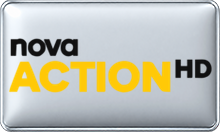
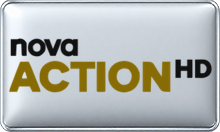
Repair nine visually flagged variants

Changed region(s): [[0.0273, 0.4545, 0.7909, 0.7273]]

diff --git a/reports/black-white-qc-2026-10-09/batch-010/checkpoint.md b/reports/black-white-qc-2026-10-09/batch-010/checkpoint.md
@@ -1,0 +1,13 @@
+- Remote branch baseline before this batch: `e42b74943b0aa0d7efe3f8e6e18c4ebfb31f3a47`.
+- Local worktree HEAD observed during batch creation: `719dd59ec5ef09a28503d21d3f21bad011de442a`.
+# BLACK/WHITE QC batch 010
+
+- Branch: `warder-black-white-complete-qc-20261009`.
+- Starting checkout HEAD: `719dd59ec5ef09a28503d21d3f21bad011de442a`.
+- Reviewed existing Phase 3 contact sheets `review-014.jpg` through `review-017.jpg` (review IDs 1301–1700; 400 variants); selected nine high-confidence 0.8w contrast failures.
+- Repaired nine output PNGs: Heim; V Film Action; V Film Hits; Prime Investigation; CGTN; CGTN Documentary; Kanal 1 Sport; Nova Action HD; Nova Krimi. Exact output paths, service references, input/output SHA256, component masks and reasons are in `repair-manifest.csv`.
+- Edits were applied to temporary in-memory copies of transparent sources, then rendered through `tools/rebuild_master_catalog.py` and the exact pinned MASTERs. No transparent source, MASTER, or cumulative audit manifest was changed.
+- Visual comparison: `batch-010-before-after.png` (left = transparent source on neutral gray; center = current output; right = repaired output).
+- All nine output PNGs decode as RGBA 220×132. Existing outputs matched the pinned renderer byte-for-pixel before edits. Source pixels outside each localized recolor mask and source alpha remained unchanged; protected brand elements (including V emblems, Nova labels, and the red Prime plus) were excluded.
+- Completed through review ID 1700. Next sheet: `review-018.jpg` / review ID 1701.
+- No push or commit performed; ready for parent review and commit.
